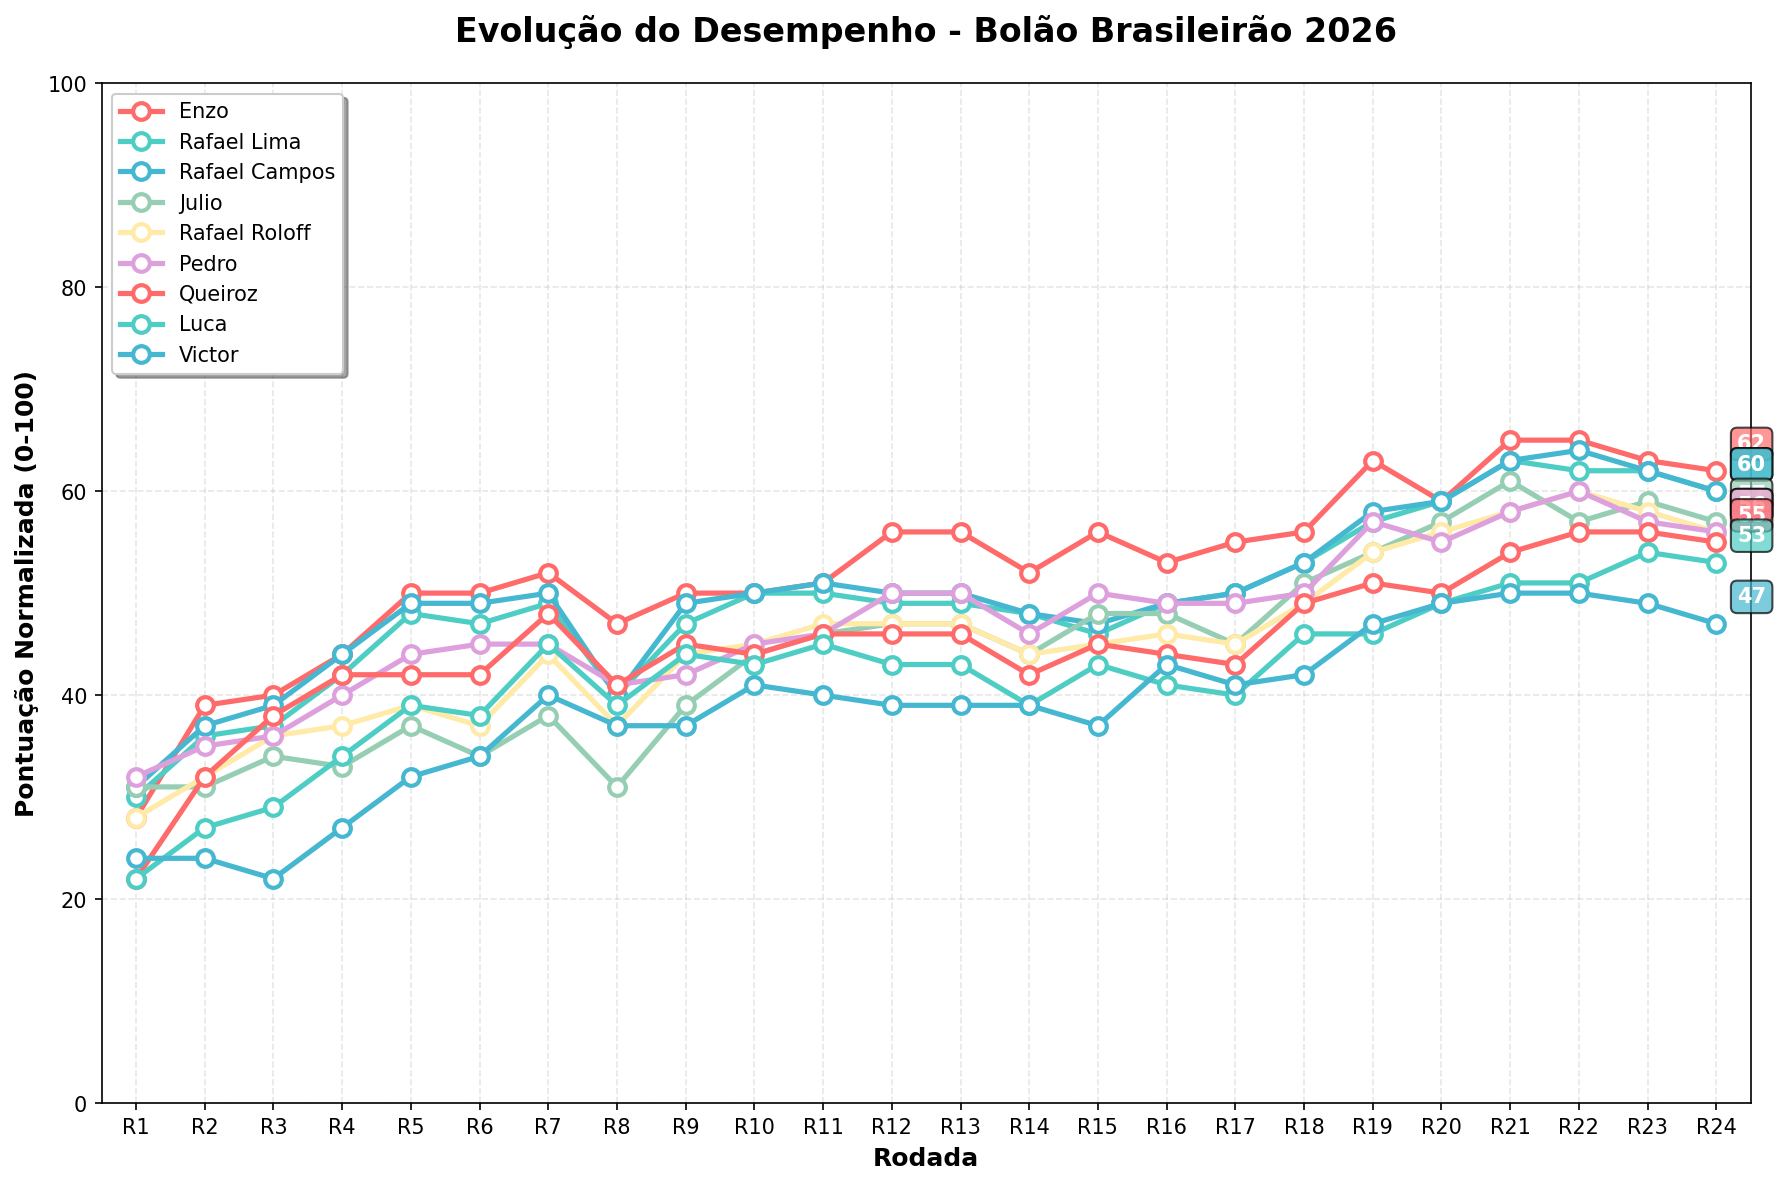
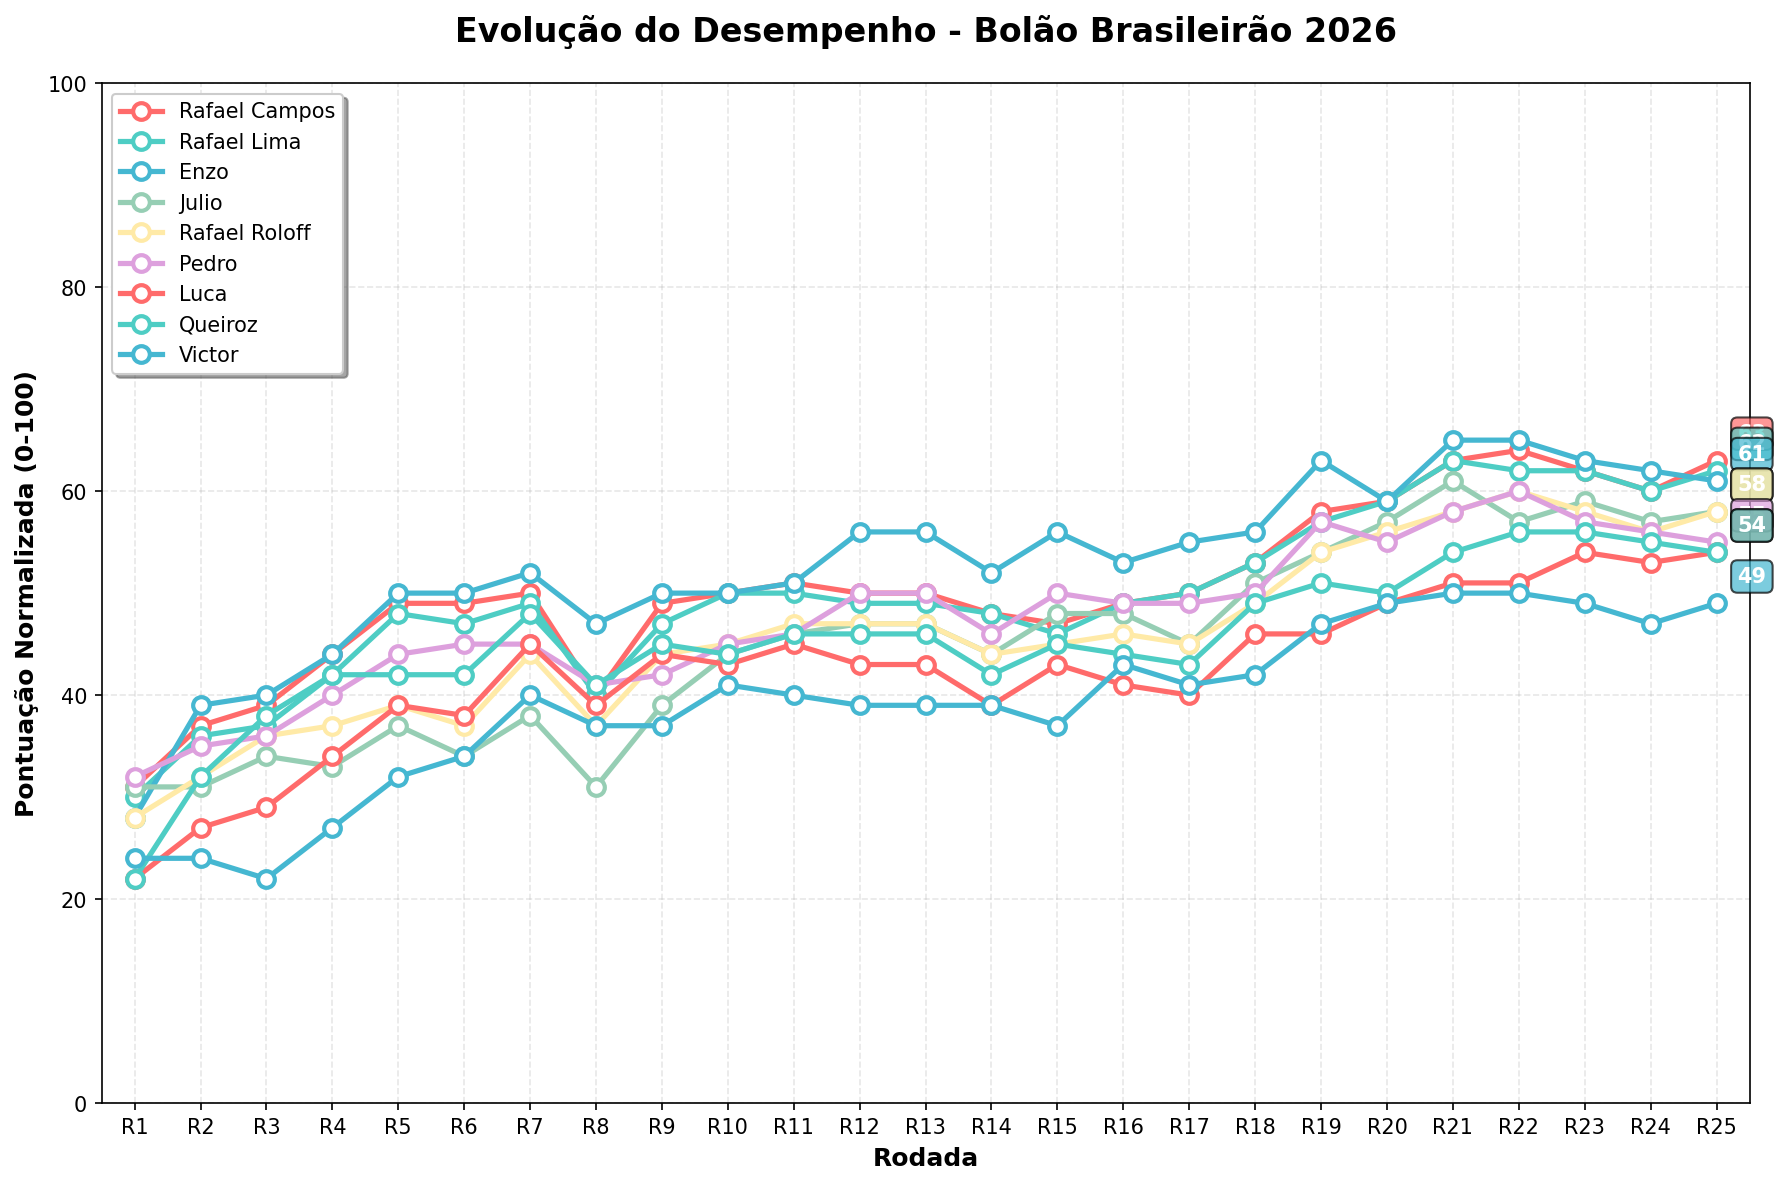
Atualizacao automatica - 30/08/2026 11:00:05,19

diff --git a/README.md b/README.md
@@ -2,71 +2,71 @@
 
 ## 🏆 Resultados Atuais
 
-**Última Atualização:** 2026-08-26 11:00:05
+**Última Atualização:** 2026-08-30 11:00:03
 
-| Time | Real | Enzo | Rafael Lima | Rafael Campos | Julio | Rafael Roloff | Pedro | Queiroz | Luca | Victor |
+| Time | Real | Rafael Campos | Rafael Lima | Enzo | Julio | Rafael Roloff | Pedro | Luca | Queiroz | Victor |
 |------|------|------|------|------|------|------|------|------|------|------|
-| Palmeiras | 1 | 2°(19p) | 3°(18p) | 3°(18p) | 2°(19p) | 2°(19p) | 3°(18p) | 3°(18p) | 3°(18p) | 3°(18p) |
+| Palmeiras | 1 | 3°(18p) | 3°(18p) | 2°(19p) | 2°(19p) | 2°(19p) | 3°(18p) | 3°(18p) | 3°(18p) | 3°(18p) |
 | Flamengo | 2 | 1°(19p) | 1°(19p) | 1°(19p) | 1°(19p) | 1°(19p) | 2°(20p) | 1°(19p) | 1°(19p) | 1°(19p) |
-| Atlético-PR | 3 | 17°(6p) | 17°(6p) | 17°(6p) | 17°(6p) | 17°(6p) | 18°(5p) | 15°(8p) | 17°(6p) | 13°(10p) |
-| Fluminense | 4 | 4°(20p) | 6°(18p) | 7°(17p) | 7°(17p) | 8°(16p) | 4°(20p) | 7°(17p) | 8°(16p) | 10°(14p) |
-| Cruzeiro | 5 | 3°(18p) | 2°(17p) | 2°(17p) | 3°(18p) | 3°(18p) | 1°(16p) | 2°(17p) | 2°(17p) | 7°(18p) |
-| Bahia | 6 | 5°(19p) | 4°(18p) | 4°(18p) | 5°(19p) | 6°(20p) | 7°(19p) | 4°(18p) | 5°(19p) | 9°(17p) |
-| Bragantino | 7 | 6°(19p) | 10°(17p) | 10°(17p) | 10°(17p) | 13°(14p) | 9°(18p) | 18°(9p) | 13°(14p) | 15°(12p) |
-| Coritiba | 8 | 15°(13p) | 16°(12p) | 16°(12p) | 19°(9p) | 14°(14p) | 19°(9p) | 12°(16p) | 20°(8p) | 20°(8p) |
-| Atlético-MG | 9 | 12°(17p) | 5°(16p) | 5°(16p) | 4°(15p) | 4°(15p) | 13°(16p) | 9°(20p) | 4°(15p) | 2°(13p) |
-| Corinthians | 10 | 8°(18p) | 9°(19p) | 8°(18p) | 9°(19p) | 5°(15p) | 8°(18p) | 6°(16p) | 10°(20p) | 8°(18p) |
-| Botafogo | 11 | 10°(19p) | 8°(17p) | 9°(18p) | 6°(15p) | 7°(16p) | 5°(14p) | 11°(20p) | 11°(20p) | 5°(14p) |
-| Vitória | 12 | 18°(14p) | 18°(14p) | 18°(14p) | 16°(16p) | 18°(14p) | 17°(15p) | 19°(13p) | 18°(14p) | 17°(15p) |
-| São Paulo | 13 | 16°(17p) | 14°(19p) | 12°(19p) | 15°(18p) | 16°(17p) | 15°(18p) | 17°(16p) | 14°(19p) | 16°(17p) |
-| Santos | 14 | 11°(17p) | 12°(18p) | 13°(19p) | 12°(18p) | 9°(15p) | 11°(17p) | 13°(19p) | 7°(13p) | 11°(17p) |
-| Grêmio | 15 | 7°(12p) | 7°(12p) | 6°(11p) | 18°(17p) | 12°(17p) | 6°(11p) | 5°(10p) | 6°(11p) | 4°(9p) |
-| Internacional | 16 | 14°(18p) | 13°(17p) | 15°(19p) | 14°(18p) | 15°(19p) | 14°(18p) | 14°(18p) | 15°(19p) | 6°(10p) |
-| Mirassol | 17 | 13°(16p) | 11°(14p) | 11°(14p) | 8°(11p) | 10°(13p) | 12°(15p) | 8°(11p) | 12°(15p) | 14°(17p) |
-| Remo | 18 | 20°(18p) | 20°(18p) | 20°(18p) | 13°(15p) | 20°(18p) | 16°(18p) | 16°(18p) | 16°(18p) | 19°(19p) |
-| Vasco | 19 | 9°(10p) | 15°(16p) | 14°(15p) | 11°(12p) | 11°(12p) | 10°(11p) | 10°(11p) | 9°(10p) | 12°(13p) |
-| Chapecoense | 20 | 19°(19p) | 19°(19p) | 19°(19p) | 20°(20p) | 19°(19p) | 20°(20p) | 20°(20p) | 19°(19p) | 18°(18p) |
-| **TOTAL** | | **328** | **324** | **324** | **318** | **316** | **316** | **314** | **310** | **296** |
+| Atlético-PR | 3 | 17°(6p) | 17°(6p) | 17°(6p) | 17°(6p) | 17°(6p) | 18°(5p) | 17°(6p) | 15°(8p) | 13°(10p) |
+| Fluminense | 4 | 7°(17p) | 6°(18p) | 4°(20p) | 7°(17p) | 8°(16p) | 4°(20p) | 8°(16p) | 7°(17p) | 10°(14p) |
+| Cruzeiro | 5 | 2°(17p) | 2°(17p) | 3°(18p) | 3°(18p) | 3°(18p) | 1°(16p) | 2°(17p) | 2°(17p) | 7°(18p) |
+| Bahia | 6 | 4°(18p) | 4°(18p) | 5°(19p) | 5°(19p) | 6°(20p) | 7°(19p) | 5°(19p) | 4°(18p) | 9°(17p) |
+| Atlético-MG | 7 | 5°(18p) | 5°(18p) | 12°(15p) | 4°(17p) | 4°(17p) | 13°(14p) | 4°(17p) | 9°(18p) | 2°(15p) |
+| Bragantino | 8 | 10°(18p) | 10°(18p) | 6°(18p) | 10°(18p) | 13°(15p) | 9°(19p) | 13°(15p) | 18°(10p) | 15°(13p) |
+| Coritiba | 9 | 16°(13p) | 16°(13p) | 15°(14p) | 19°(10p) | 14°(15p) | 19°(10p) | 20°(9p) | 12°(17p) | 20°(9p) |
+| Corinthians | 10 | 8°(18p) | 9°(19p) | 8°(18p) | 9°(19p) | 5°(15p) | 8°(18p) | 10°(20p) | 6°(16p) | 8°(18p) |
+| São Paulo | 11 | 12°(19p) | 14°(17p) | 16°(15p) | 15°(16p) | 16°(15p) | 15°(16p) | 14°(17p) | 17°(14p) | 16°(15p) |
+| Botafogo | 12 | 9°(17p) | 8°(16p) | 10°(18p) | 6°(14p) | 7°(15p) | 5°(13p) | 11°(19p) | 11°(19p) | 5°(13p) |
+| Vitória | 13 | 18°(15p) | 18°(15p) | 18°(15p) | 16°(17p) | 18°(15p) | 17°(16p) | 18°(15p) | 19°(14p) | 17°(16p) |
+| Santos | 14 | 13°(19p) | 12°(18p) | 11°(17p) | 12°(18p) | 9°(15p) | 11°(17p) | 7°(13p) | 13°(19p) | 11°(17p) |
+| Grêmio | 15 | 6°(11p) | 7°(12p) | 7°(12p) | 18°(17p) | 12°(17p) | 6°(11p) | 6°(11p) | 5°(10p) | 4°(9p) |
+| Vasco | 16 | 14°(18p) | 15°(19p) | 9°(13p) | 11°(15p) | 11°(15p) | 10°(14p) | 9°(13p) | 10°(14p) | 12°(16p) |
+| Internacional | 17 | 15°(18p) | 13°(16p) | 14°(17p) | 14°(17p) | 15°(18p) | 14°(17p) | 15°(18p) | 14°(17p) | 6°(9p) |
+| Mirassol | 18 | 11°(13p) | 11°(13p) | 13°(15p) | 8°(10p) | 10°(12p) | 12°(14p) | 12°(14p) | 8°(10p) | 14°(16p) |
+| Remo | 19 | 20°(19p) | 20°(19p) | 20°(19p) | 13°(14p) | 20°(19p) | 16°(17p) | 16°(17p) | 16°(17p) | 19°(20p) |
+| Chapecoense | 20 | 19°(19p) | 19°(19p) | 19°(19p) | 20°(20p) | 19°(19p) | 20°(20p) | 19°(19p) | 20°(20p) | 18°(18p) |
+| **TOTAL** | | **330** | **328** | **326** | **320** | **320** | **314** | **312** | **312** | **300** |
 
 ### 🏅 Classificação Atual (pontuação normalizada 0-100)
 
-🥇 **Enzo**: 62 pontos<br>
-🥈 **Rafael Lima**: 60 pontos<br>
-🥉 **Rafael Campos**: 60 pontos<br>
-4. **Julio**: 57 pontos<br>
-5. **Rafael Roloff**: 56 pontos<br>
-6. **Pedro**: 56 pontos<br>
-7. **Queiroz**: 55 pontos<br>
-8. **Luca**: 53 pontos<br>
-9. **Victor**: 47 pontos<br>
+🥇 **Rafael Campos**: 63 pontos<br>
+🥈 **Rafael Lima**: 62 pontos<br>
+🥉 **Enzo**: 61 pontos<br>
+4. **Julio**: 58 pontos<br>
+5. **Rafael Roloff**: 58 pontos<br>
+6. **Pedro**: 55 pontos<br>
+7. **Luca**: 54 pontos<br>
+8. **Queiroz**: 54 pontos<br>
+9. **Victor**: 49 pontos<br>
 
 ### 📈 Histórico de Desempenho
 
 ![Gráfico de Performance](performance_chart.png)
 
-| Rodada | Enzo | Rafael Lima | Rafael Campos | Julio | Rafael Roloff | Pedro | Queiroz | Luca | Victor |
+| Rodada | Rafael Campos | Rafael Lima | Enzo | Julio | Rafael Roloff | Pedro | Luca | Queiroz | Victor |
 |-------|-------|-------|-------|-------|-------|-------|-------|-------|-------|
-| R15 | 56 | 46 | 47 | 48 | 45 | 50 | 45 | 43 | 37 |
-| R16 | 53 | 49 | 49 | 48 | 46 | 49 | 44 | 41 | 43 |
-| R17 | 55 | 50 | 50 | 45 | 45 | 49 | 43 | 40 | 41 |
-| R18 | 56 | 53 | 53 | 51 | 49 | 50 | 49 | 46 | 42 |
-| R19 | 63 | 57 | 58 | 54 | 54 | 57 | 51 | 46 | 47 |
-| R20 | 59 | 59 | 59 | 57 | 56 | 55 | 50 | 49 | 49 |
-| R21 | 65 | 63 | 63 | 61 | 58 | 58 | 54 | 51 | 50 |
-| R22 | 65 | 62 | 64 | 57 | 60 | 60 | 56 | 51 | 50 |
-| R23 | 63 | 62 | 62 | 59 | 58 | 57 | 56 | 54 | 49 |
-| R24 | 62 | 60 | 60 | 57 | 56 | 56 | 55 | 53 | 47 |
+| R16 | 49 | 49 | 53 | 48 | 46 | 49 | 41 | 44 | 43 |
+| R17 | 50 | 50 | 55 | 45 | 45 | 49 | 40 | 43 | 41 |
+| R18 | 53 | 53 | 56 | 51 | 49 | 50 | 46 | 49 | 42 |
+| R19 | 58 | 57 | 63 | 54 | 54 | 57 | 46 | 51 | 47 |
+| R20 | 59 | 59 | 59 | 57 | 56 | 55 | 49 | 50 | 49 |
+| R21 | 63 | 63 | 65 | 61 | 58 | 58 | 51 | 54 | 50 |
+| R22 | 64 | 62 | 65 | 57 | 60 | 60 | 51 | 56 | 50 |
+| R23 | 62 | 62 | 63 | 59 | 58 | 57 | 54 | 56 | 49 |
+| R24 | 60 | 60 | 62 | 57 | 56 | 56 | 53 | 55 | 47 |
+| R25 | 63 | 62 | 61 | 58 | 58 | 55 | 54 | 54 | 49 |
 
 **Tendência (últimas 2 medições):**
+- **Rafael Campos**: 📈 +3
+- **Rafael Lima**: 📈 +2
 - **Enzo**: 📉 -1
-- **Rafael Lima**: 📉 -2
-- **Rafael Campos**: 📉 -2
-- **Julio**: 📉 -2
-- **Rafael Roloff**: 📉 -2
+- **Julio**: 📈 +1
+- **Rafael Roloff**: 📈 +2
 - **Pedro**: 📉 -1
+- **Luca**: 📈 +1
 - **Queiroz**: 📉 -1
-- **Luca**: 📉 -1
-- **Victor**: 📉 -2
+- **Victor**: 📈 +2
 
 ## 🎯 Sistema de Pontuação
 
